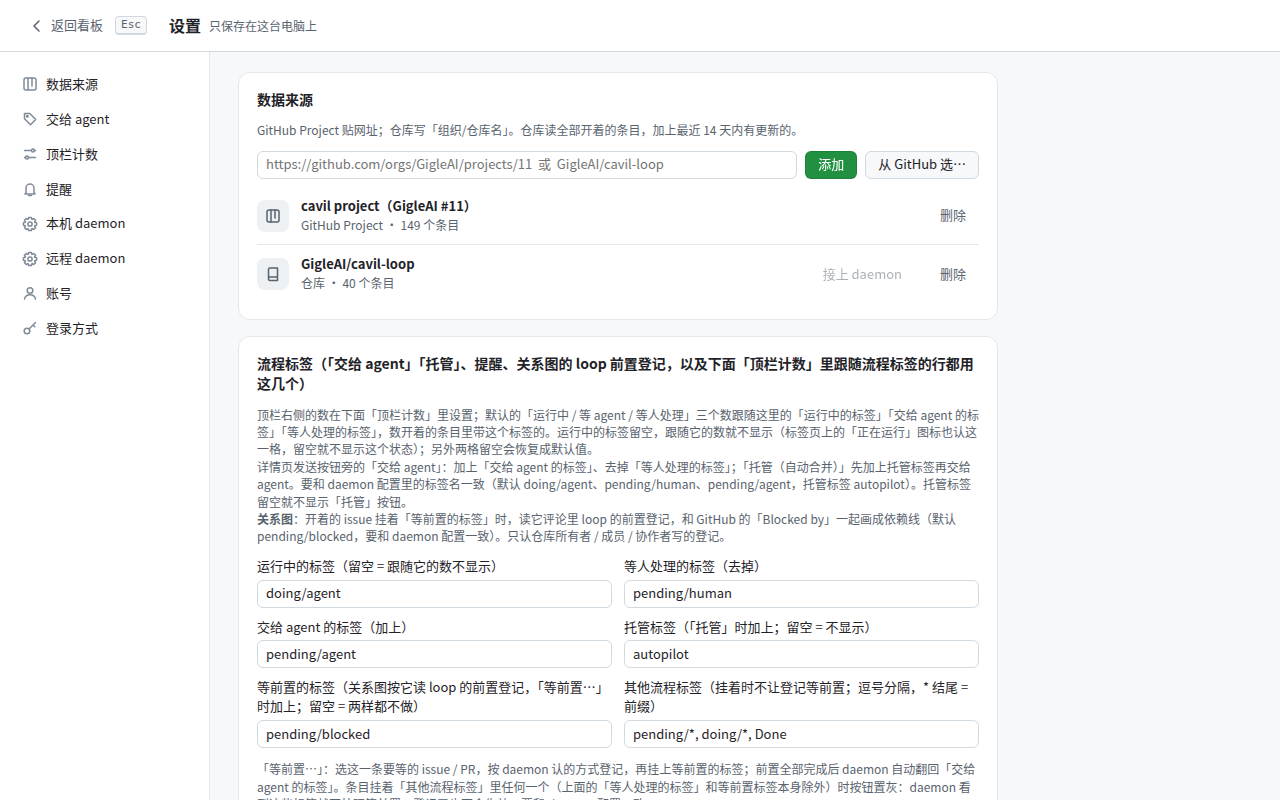
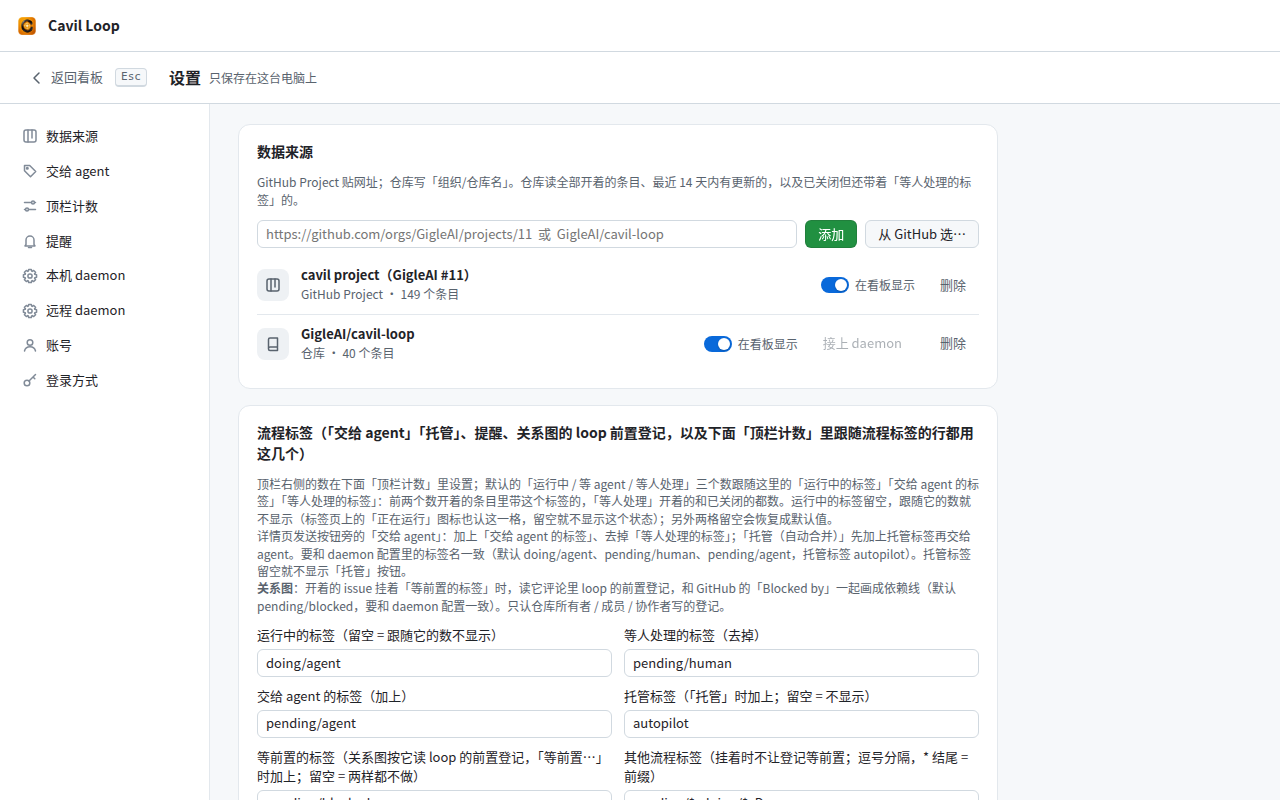
docs(client): the user guide follows the one top row; source switch label stays on one line (#467)
Merged main brought the client user guide (#475). It described the
source check boxes in the top bar and a separate tab bar, and listed
#467 as in progress: now the switch in Settings, tabs in the top row,
one bullet for the row itself; screenshots regenerated with the guide's
own spec. The new screenshot showed the 在看板显示 words wrapping under
the switch (settings labels stack by default) — kept on one line.

diff --git a/client/src/renderer/styles.css b/client/src/renderer/styles.css
@@ -495,6 +495,8 @@ table.items th, table.items td.col-updated, table.items td.col-subIssues, table.
 .settings-main h3 { font-size: 14px; margin: 12px 0 4px; }
 .settings-main label { display: flex; flex-direction: column; gap: 4px; }
 .settings-main label.row, .settings-main label.radio { flex-direction: row; }
+/* GitHub#467: a source row's 在看板显示 switch: the switch and its words side by side, never wrapped */
+.settings-main .sources label.toggle { flex-direction: row; align-items: center; gap: 6px; flex: none; white-space: nowrap; }
 .settings-main .row label { flex: 1; min-width: 200px; }
 /* GitHub#404: the four flow labels, two by two */
 .settings-main .row.label-grid { display: grid; grid-template-columns: 1fr 1fr; gap: 10px 12px; }

diff --git a/docs/client.md b/docs/client.md
@@ -46,11 +46,12 @@ That is all the client needs. **With repositories only, no Project**: iteration 
 
 ## Sources
 
-- **Two kinds**: a GitHub Project (`github.com/orgs/<org>/projects/<number>` or `github.com/users/<user>/projects/<number>`) and a repository (`owner/repo`). Add as many as you like; the top bar has a checkbox per source, and an unchecked source is hidden for the moment.
+- **Two kinds**: a GitHub Project (`github.com/orgs/<org>/projects/<number>` or `github.com/users/<user>/projects/<number>`) and a repository (`owner/repo`). Add as many as you like. Settings → "数据来源" (sources) lists each one; switching its "在看板显示" (show on board) off hides its items from the board for the moment (the source keeps syncing; its row fades and says "看板上暂不显示" (hidden from the board)).
 - **One item, one entry**: an issue that is in several sources is merged into one by `repo#number`. Iteration and status belong to each Project, so when two Projects disagree the item shows once in each column; the milestone belongs to the repository.
 - **Importing a saved web view**: when you add a Project, the client reads one view saved on its GitHub page (the one in the URL if it ends in `/views/N`, else the first) and copies its layout, grouping, sort, columns and filter. This happens once; later changes on the web page are not followed. Whatever cannot be copied (grouping by a custom field, the roadmap layout, …) is listed at the top of the view.
 - **An organization's Project cannot be read**: usually the organization restricts third-party apps and an owner has to approve. The developer notes explain it step by step in "[读不到组织的 Project 怎么办](../client/README.md#读不到组织的-project-怎么办401)" (when an organization's Project cannot be read).
 - **Syncing**: while the app is open it syncs about once a minute; the top bar shows when it last checked. The refresh button or ⌘R syncs now. A source is either read in full and replaces the local copy, or the previous round's copy stays — a failed read never makes items "disappear".
+- **The window's top row**: one row at the top of the window — logo, open tabs, search box, sync status, refresh, new (➕), settings, account; all of it stays while a detail tab is in front. The search box is small until used (it still shows the current search); click it or press `/` to widen it. On macOS this row is the window's title bar: the traffic lights sit at its left, drag an empty part to move the window, double-click it to zoom.
 
 ## Board
 
@@ -98,7 +99,7 @@ The third view button. Only issues with a relation are drawn (those with a paren
 ![Details floating on the right of the board](client-screens/detail.png)
 
 - **Click** a card or a table row's title and its details float on the right of the board (drag the left edge to widen): body, discussion, labels, assignees, iteration, status, milestone; a PR also has its checks and the merge button. Click outside, press Esc or click "收起 ›" (hide) to close it. The dependency graph differs: a click on a node only shows its summary; a double-click, or "打开详情" (open details) in the summary, opens this panel; a node outside the current sources has only the summary and "open on GitHub", no details.
-- **⌘-click** (or right-click → "在新标签页打开" (open in new tab), or "在标签页打开" (open in tab) at the top right of the panel) opens the item as a tab, details filling the window. The top row of the window is then a tab bar whose "首页" (home) is the board / table / graph; ⌘1 … ⌘9 switch tabs, ⌘W closes the current one. Open tabs come back after a restart.
+- **⌘-click** (or right-click → "在新标签页打开" (open in new tab), or "在标签页打开" (open in tab) at the top right of the panel) opens the item as a tab, details filling the window. The tabs sit in the window's top row (right of the logo), "首页" (home) being the board / table / graph, and scroll sideways when there are more than fit; ⌘1 … ⌘9 switch tabs, ⌘W closes the current one. Open tabs come back after a restart.
 - Unsent text in a reply box stays with its tab / panel when you switch away and back; closing a tab that holds unsent text asks first.
 
 ## Making changes from the client
@@ -168,5 +169,4 @@ Client issues still open when this guide was written (2026-11-13); the issue pag
 - A spinner and a result message after "重新读取" / "重新同步" (re-read / re-sync): [#455](https://github.com/GigleAI/cavil-loop/issues/455)
 - "Waiting for a human" also counts closed items still labeled `pending/human`: [#462](https://github.com/GigleAI/cavil-loop/issues/462)
 - Closed issues / PRs hidden by default: [#464](https://github.com/GigleAI/cavil-loop/issues/464)
-- A slimmer top bar, merged into the window's title bar: [#467](https://github.com/GigleAI/cavil-loop/issues/467)
 - Client tests leaving temporary directories behind: [#469](https://github.com/GigleAI/cavil-loop/issues/469) (affects development only, not use)
